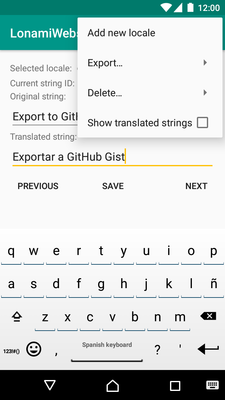
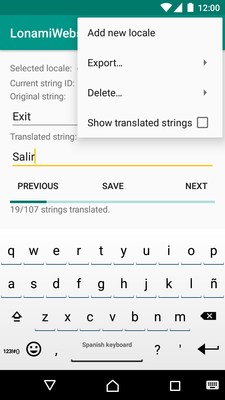
Implemented a fancy ProgressBar on the TranslateActivity (closes #12)

Changed region(s): [[0.0311, 0.48, 0.9644, 0.54], [0.0622, 0.36, 0.56, 0.42], [0.0933, 0.27, 0.3422, 0.3]]

diff --git a/src/app/src/main/java/io/github/lonamiwebs/stringlate/activities/TranslateActivity.java b/src/app/src/main/java/io/github/lonamiwebs/stringlate/activities/TranslateActivity.java
@@ -22,7 +22,9 @@ import android.view.View;
 import android.widget.AdapterView;
 import android.widget.ArrayAdapter;
 import android.widget.EditText;
+import android.widget.ProgressBar;
 import android.widget.Spinner;
+import android.widget.TextView;
 import android.widget.Toast;
 
 import java.io.File;
@@ -55,6 +57,9 @@ public class TranslateActivity extends AppCompatActivity {
     private Spinner mLocaleSpinner;
     private Spinner mStringIdSpinner;
 
+    private ProgressBar mProgressProgressBar;
+    private TextView mProgressTextView;
+
     private String mSelectedLocale;
     private String mSelectedResourceId;
     private boolean mShowTranslated;
@@ -79,6 +84,9 @@ public class TranslateActivity extends AppCompatActivity {
 
         mLocaleSpinner = (Spinner)findViewById(R.id.localeSpinner);
         mStringIdSpinner = (Spinner)findViewById(R.id.stringIdSpinner);
+
+        mProgressProgressBar = (ProgressBar)findViewById(R.id.progressProgressBar);
+        mProgressTextView = (TextView)findViewById(R.id.progressTextView);
 
         mLocaleSpinner.setOnItemSelectedListener(eOnLocaleSelected);
         mStringIdSpinner.setOnItemSelectedListener(eOnStringIdSelected);
@@ -489,6 +497,7 @@ public class TranslateActivity extends AppCompatActivity {
             if (mSelectedLocaleResources != null) {
                 String content = mTranslatedStringEditText.getText().toString();
                 mSelectedLocaleResources.setContent(mSelectedResourceId, content);
+                updateProgress();
             }
         }
 
@@ -517,6 +526,7 @@ public class TranslateActivity extends AppCompatActivity {
                 // we don't care unsaved changes (because there isn't any)
                 setCurrentLocale(selectedLocale);
             }
+            updateProgress();
         }
         @Override
         public void onNothingSelected(AdapterView<?> parent) { }
@@ -534,6 +544,50 @@ public class TranslateActivity extends AppCompatActivity {
     };
 
     //endregion
+
+    //endregion
+
+    //region UI
+
+    // Checks whether the translation layout (EditText and previous/next buttons)
+    // should be visible (there is at least one non-default locale) or not.
+    void checkTranslationVisibility() {
+        if (mLocaleSpinner.getCount() == 0) {
+            Toast.makeText(this, R.string.add_locale_to_start, Toast.LENGTH_SHORT).show();
+            findViewById(R.id.translationLayout).setVisibility(View.GONE);
+        } else {
+            findViewById(R.id.translationLayout).setVisibility(View.VISIBLE);
+        }
+    }
+
+    void updateProgress() {
+        if (mSelectedLocaleResources == null) {
+            mProgressProgressBar.setMax(1);
+            mProgressProgressBar.setProgress(0);
+            mProgressTextView.setText("");
+        } else {
+            int max = mDefaultResources.count(false); // Exclude non-translatable strings
+            // TODO: Maybe do NOT save those? They're never used on Stringlate.
+
+            // The selected resources might have more strings than the default does.
+            // For example, when an application got updated and dropped some unused strings.
+            // For this reason, we need to make sure that these are on the default resources.
+            // TODO: Maybe warn the user to remove unused strings?
+            int current = 0;
+            for (ResourcesString rs : mSelectedLocaleResources)
+                if (mDefaultResources.contains(rs.getId()))
+                    current++;
+
+            mProgressProgressBar.setMax(max);
+            mProgressProgressBar.setProgress(current);
+            mProgressTextView.setText(getString(R.string.translation_progress, current, max));
+        }
+    }
+
+    // Shows the "No locale selected" warning
+    void showNoLocaleSelected() {
+        Toast.makeText(this, R.string.no_locale_selected, Toast.LENGTH_SHORT).show();
+    }
 
     //endregion
 
@@ -603,17 +657,6 @@ public class TranslateActivity extends AppCompatActivity {
 
     //region Utilities
 
-    // Checks whether the translation layout (EditText and previous/next buttons)
-    // should be visible (there is at least one non-default locale) or not.
-    void checkTranslationVisibility() {
-        if (mLocaleSpinner.getCount() == 0) {
-            Toast.makeText(this, R.string.add_locale_to_start, Toast.LENGTH_SHORT).show();
-            findViewById(R.id.translationLayout).setVisibility(View.GONE);
-        } else {
-            findViewById(R.id.translationLayout).setVisibility(View.VISIBLE);
-        }
-    }
-
     // Checks whether the current resources are saved or not
     // If they're not, the user is asked to save them first
     void checkResourcesSaved(final Callback<Boolean> callback) {
@@ -655,11 +698,6 @@ public class TranslateActivity extends AppCompatActivity {
     // Ensures that there is at least a locale selected
     boolean isLocaleSelected() {
         return mSelectedLocaleResources != null;
-    }
-
-    // Shows the "No locale selected" warning
-    void showNoLocaleSelected() {
-        Toast.makeText(this, R.string.no_locale_selected, Toast.LENGTH_SHORT).show();
     }
 
     boolean isValidLocale(String locale) {

diff --git a/src/app/src/main/java/io/github/lonamiwebs/stringlate/classes/resources/Resources.java b/src/app/src/main/java/io/github/lonamiwebs/stringlate/classes/resources/Resources.java
@@ -99,6 +99,18 @@ public class Resources implements Iterable<ResourcesString> {
 
     //region Getting content
 
+    public int count(boolean includeNonTranslatable) {
+        if (includeNonTranslatable)
+            return mStrings.size();
+        else {
+            int count = 0;
+            for (ResourcesString rs : mStrings)
+                if (rs.isTranslatable())
+                    count++;
+            return count;
+        }
+    }
+
     public boolean contains(String resourceId) {
         for (ResourcesString rs : mStrings)
             if (rs.getId().equals(resourceId))
